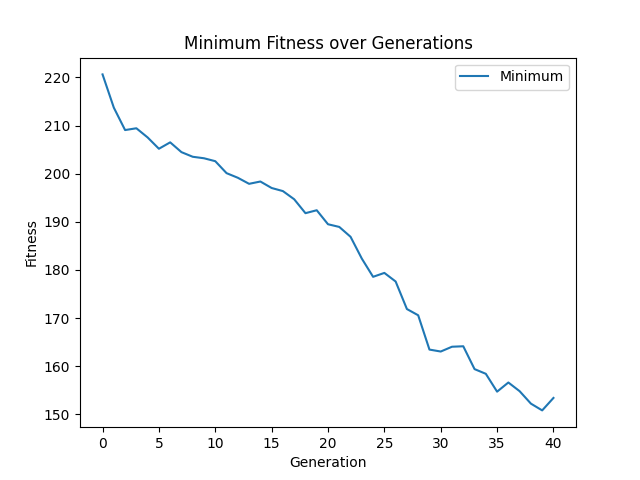
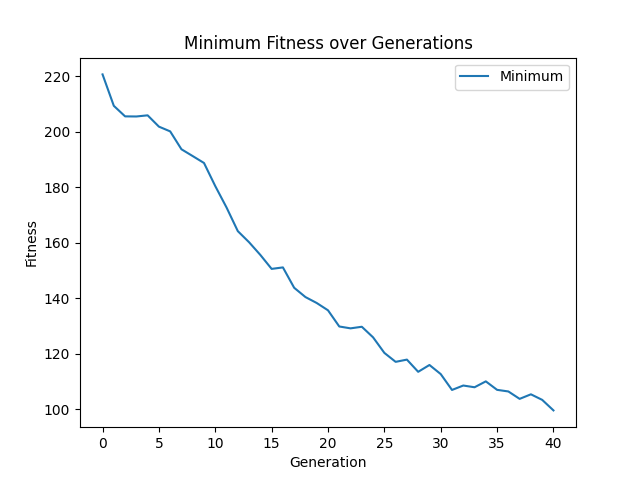
Add files via upload

diff --git a/RegularGPRiceProblem/main.py b/RegularGPRiceProblem/main.py
@@ -147,7 +147,7 @@ def main(data_filepath='Rice_Cammeo_Osmancik.arff', pop_size=100, n_gen=40, seed
 
 
     toolbox.register("evaluate", evalRice, points=[_ for _ in trainingData]) #register the evaluate function to evaluate the individual on the training data
-    toolbox.register("select", tools.selTournament, tournsize=2) #register the select function to select individuals using tournament selection
+    toolbox.register("select", tools.selTournament, tournsize=3) #register the select function to select individuals using tournament selection
     toolbox.register("mate", gp.cxOnePoint) #register the mate function to perform one-point crossover
     toolbox.register("expr_mut", gp.genFull, min_=0, max_=2) #register the expr_mut function to generate a random tree for mutation
     toolbox.register("mutate", gp.mutUniform, expr=toolbox.expr_mut, pset=pset) #register the mutate function to perform uniform mutation
